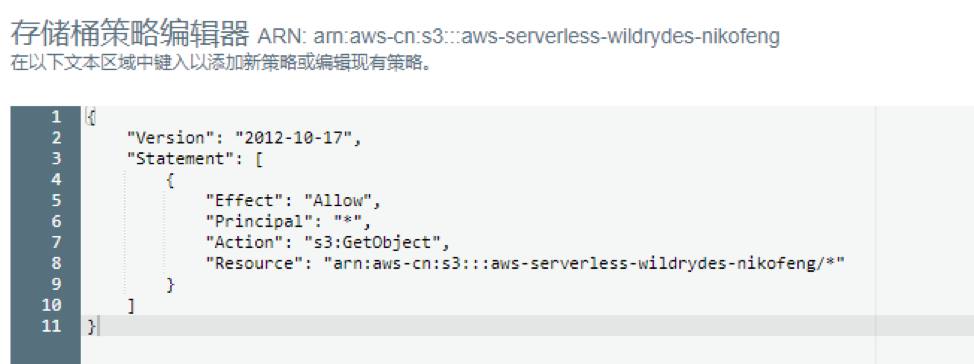
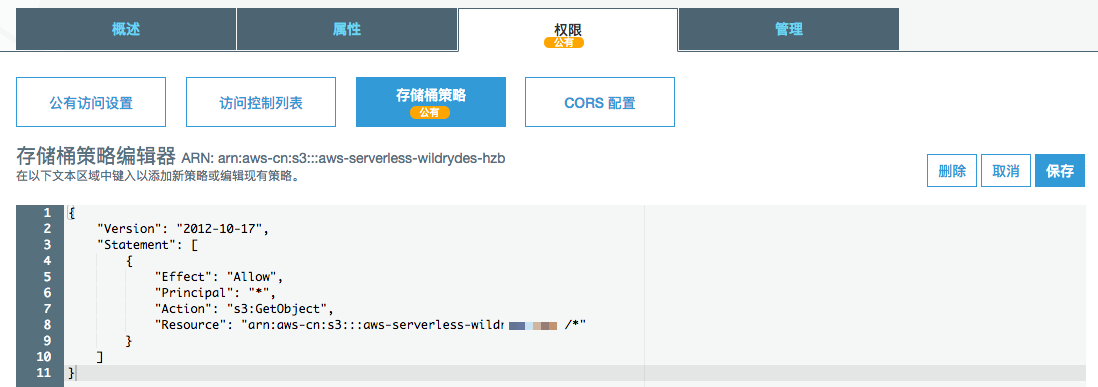
版本管理与灰度发布

Changed region(s): [[0.0, 0.0, 0.8624, 1.0], [0.8316, 0.3929, 1.0, 0.4835], [0.9856, 0.8462, 1.0, 0.9368]]

diff --git a/Lab4-WildRyde-WebApplication/readme3.md b/Lab4-WildRyde-WebApplication/readme3.md
@@ -1,11 +1,15 @@
 ## 第三节：集成API Gateway 构建RESTful APIs
 
-在本单元中，您将使用API Gateway将您在上一个模块中构建的Lambda函数公开为RESTful API,此API可在Internet上访问。使用此配置，您将通过添加客户端JavaScript将您的静态托管网站转换为动态Web应用程序，通过调用AJAX去暴露API。  
+在本单元中，您将使用 API Gateway 将您在上一节中构建的 Lambda 函数开放为 RESTful API 并在 Internet 上可访问。  
 ![arch](./img/PictureC1.png)
-上图显示了您将在此模块中构建的API Gateway组件如何与先前构建的现有组件集成。灰色项目是您在之前步骤中已实施的部分。  
+上图显示了您将在本节中构建的 API Gateway 组件如何与先前构建的现有组件集成。灰色项目是您在之前步骤中已实施的部分。  
 
-您在第一个模块中部署的静态网站已经配置了一个页面，该页面被配置为与您将在此模块中构建的API进行交互。 /ride.html上的页面有一个简单的基于地图的界面，用于请求独角兽骑行。您的用户可以通过单击地图上的某个点来选择他们的取件位置，然后通过选择右上角的“Request Unicorn”按钮来请求乘坐。  
-
+您在第一节中部署的静态网站已经显示了一个静态页面，该页面被配置为与您将在本节中构建的 API 进行动态交互。   
+/ride.html  上的页面有一个简单的基于地图的界面，用于请求独角兽骑行。用户可以单击地图上的某个点来选择他们的取件位置，然后通过选择右上角的“Request Unicorn”按钮来发起请求。  
+  
+  
+操作步骤：
+  
 ### 通过API Gateway创建REST API
 1. 在AWS管理控制台中，单击“服务”，然后在“应用程序服务”下选择“API Gateway”
 2. 选择“创建API”
@@ -15,8 +19,8 @@ o	API名称：WildRydes
 4. 点击“创建API”完成操作  
    ![api](./img/PictureC2.png)
 
-### 创建API资源和方法
-在API中创建名为/ride的新资源, 然后为该资源创建一个POST方法，并将其配置为使用由您在此模块的第一步中创建的RequestUnicorn函数支持的Lambda代理集成。
+### 创建 API Resource (资源)和 Method (请求方法)
+在API中创建名为 /ride 的新资源, 然后为该资源创建一个 POST 方法，并将其配置为 Lambda RequestUnicorn 函数代理集成。
 
 1. 在左侧导航栏中，单击WildRydes API下的“资源”。
    ![api](./img/PictureC3.png)
@@ -27,7 +31,7 @@ o	资源路径：/ride
 o	勾选“启用API Gateway CORS”  
 ![api](./img/PictureC4.png)
 4. 点击“创建资源”
-5. 选择新创建的/ride资源后，从“操作”下拉列表中选择“创建方法”
+5. 选择新创建的 /ride 资源后，从“操作”下拉列表中选择“创建方法”
 6. 选中显示的新下拉列表中的POST方法
 ![api](./img/PictureC5.png)
 7. 点击“POST”方法进入设置页面，填入如下信息  
@@ -40,11 +44,12 @@ o	勾选“使用默认超时”
 8. 点击“保存”
 9. 在弹出的确认框里，点击“确定”授予API Gateway调用Lambda函数的权限
 10. 在“操作”下拉列表中，选择“部署API”
+    ![api](./img/PictureC16.png)
 11. 在部署API页面中填入如下信息
 o	部署阶段：新阶段  
 o	阶段名称：prod  
 12. 点击“部署”
-13. 记录“prod阶段编辑器”的调用URL，后续需要用到（如下图所示）
+13. 记录“prod阶段编辑器”的调用URL，这个URL就是API暴露到公网的访问地址。后续需要用到（如下图所示）。
 ![api](./img/PictureC7.png)
 
 ### 更新网页应用的配置
@@ -66,13 +71,17 @@ o	阶段名称：prod
 点击终端节点跳转到网页应用执行验证  
 ![api](./img/PictureC9.png)
 ![api](./img/PictureC10.png)
-![api](./img/PictureC11.png)
+
 ![api](./img/PictureC12.png)
 点击“GIDDY UP!”，进入下一个测试页面
-![api](./img/PictureC13.png)
-如果一切正常，会看到上图所示的一张地图  
+
+如果一切正常，会看到一张地图  
 在图中地图上任意一点点击鼠标左键，设定一个地点，如下图：
 ![api](./img/PictureC14.png)
 点击右上角的“Request Unicorn”,会发现有个马从一个角落跑出来到上一步设定的地点，并且右上角出现一些文字提示，提示前来接驾的马的颜色等信息。
 ![api](./img/PictureC15.png)
-至此，恭喜您，您基于S3 + API gateway + Lambda + DynamoDB的第一个serverless应用搭建完成！该应用为serverless架构，您无需管理任何服务器，只需进行应用代码编写和一些简单的配置，即可实现一个动态伸缩、高可用、按实际使用量付费的架构！
+至此，基于S3 + API gateway + Lambda + DynamoDB的第一个serverless应用搭建完成！该应用为serverless架构，您无需管理任何服务器，只需进行应用代码编写和一些简单的配置，即可实现一个动态伸缩、高可用、按实际使用量付费的架构！
+
+您可以进一步到 DynamoDB 界面上查看写入的数据库记录。然后进入下一节，了解 Lambda 和 API Gateway 更多的运维知识。
+
+下一节：[监控、版本管理与灰度发布](./readme4.md)

diff --git a/Lab4-WildRyde-WebApplication/readme2.md b/Lab4-WildRyde-WebApplication/readme2.md
@@ -1,9 +1,9 @@
 ## 第二节：搭建无服务器后台
-在此模块中，您将使用AWS Lambda和Amazon DynamoDB构建应用后端，以处理来自Web应用程序的请求。您在第一个模块中部署的浏览器应用程序允许用户请求将独角兽发送到他们选择的位置。为了满足这些请求，浏览器中运行的JavaScript需要调用在云中运行的服务。  
+在此模块中，您将使用 AWS Lambda 和 Amazon DynamoDB 构建应用后端，以处理来自Web应用程序的请求。您在第一节中部署的应用程序允许用户请求将独角兽发送到他们选择的位置。为了满足这些请求，浏览器中运行的JavaScript需要调用在云中运行的服务。  
   
 您将实现一个Lambda函数，每次用户请求一个独角兽时都会调用该函数。该函数将选择一个独角兽，在DynamoDB表中记录请求，然后使用有关正在调度的独角兽的详细信息响应前端应用程序。  
   
-使用Amazon API Gateway从浏览器调用该函数。您将在下一个模块中实现该连接。对于这个模块，你只需要单独测试你的功能。  
+使用Amazon API Gateway从浏览器调用该函数。您将在下一个模块中实现该连接。对于这个模块，你只需要单独测试本模块的功能。  
 
 ![architecture](./img/PictureB1.png)
 
@@ -15,10 +15,12 @@
 * 表设置: 勾选“使用默认设置”  
 ![ddb](./img/PictureB2.png)  
 * 点击“创建”
-* 在“”表详细信息栏里获取Amazon 资源名称 (ARN), 把对应的值记录下来将会用在下一个操作
+* 在表详细信息栏里获取资源名称 ARN , 把对应的值记录下来将会用在下一个操作
+![ddb](./img/PictureBp1.png)
 
-### 创建IAM角色应用在Lambda函数
-每个Lambda函数都有一个与之关联的IAM角色。此角色定义允许Lambda函数访问其他相关的AWS服务。出于本研讨会的目的，您需要创建一个IAM角色，授予您的Lambda函数权限，以便将日志写入Amazon CloudWatch Logs并访问将项目写入DynamoDB表。  
+
+### 创建 Lambda 函数需要使用的 IAM 角色
+每个Lambda函数都有一个与之关联的IAM角色。此角色定义允许Lambda函数访问其他相关的AWS服务。您需要创建一个IAM角色，授予您的Lambda函数权限，以便并访问DynamoDB表，以及写入日志到CloudWatchLogs。  
 1. 在AWS管理控制台中，单击“服务”，然后在“安全性&身份”部分中选择IAM
 2. 在左侧导航栏中选择“角色”，然后选择“创建角色”
 3. 从AWS服务组中为角色类型选择Lambda，然后单击“下一步：权限”
@@ -33,24 +35,24 @@
    ![iam](./img/PictureB5.png) 
 8. 点击“权限”选项页里右侧的“添加内联策略”创建允许往DynamoDB写的权限
    ![iam](./img/PictureB6.png) 
-9. 在“可视化编辑器”中填写如下信息
+9. 在“可视化编辑器”中填写如下信息  
 o	服务：DynamoDB  
 o	操作：PutItem，可在搜索栏上筛选PutItem  
 o	资源：选择“特定”，点击“添加ARN”，输入刚才创建DynamoDB表后记录下来的ARN信息  
 o	填写完ARN后，Region, Account, Table name这三个字段会自动填充。    
 ![iam](./img/PictureB7.png) 
-10. 点击“Review Policy”
+10. 点击“添加”，然后“查看策略”
 11. 输入名称“DynamoDBWriteAccess”，然后点击“Create Policy”
 12. 创建结束后在“权限”选项页里可以看到已经成功添加了“DynamoDBWriteAccess”策略
     ![iam](./img/PictureB8.png) 
 
 ### 创建用于处理请求的Lambda函数
 
-AWS Lambda将运行您的代码以响应HTTP请求等事件。在此步骤中，您将构建核心功能，该功能将处理来自Web应用程序的API请求以分派独角兽。在下一个模块中，您将使用Amazon API Gateway创建RESTful API，该API将公开可从用户的浏览器调用的HTTP终端节点。然后，您将在此步骤中创建的Lambda函数连接到该API，以便为Web应用程序创建功能完备的后端。
+AWS Lambda 将运行您的代码以动态响应HTTP请求。在此步骤中，您将构建核心功能，该功能将处理来自Web应用程序的API请求以分派独角兽。
 
 1. 选择服务，然后在计算部分选择Lambda。
 2. 选择“创建函数”
-3. 选择“从头开始创作”，并填入一下内容
+3. 选择“从头开始创作”，并填入一下内容  
 o	名称：RequestUnicorn  
 o	运行语言：Node.js 6.10  
 o	角色：选择现有角色  
@@ -62,7 +64,7 @@ o	现有角色：WildRydesLamdba
 ### 验证Lambda函数
 1. 在功能的主编辑屏幕中，从“选择测试事件 ...”下拉列表中选择“配置测试事件”。
 ![iam](./img/PictureB9.png) 
-2. 勾选“创建新测试事件”，事件模板选择默认的“Hello World”,“事件名称”填入TestRequestEvent
+2. 勾选“创建新测试事件”，事件模板选择默认的“Hello World”,“事件名称”填入 TestRequestEvent
 3. 将以下测试事件复制并粘贴到编辑器中  
 ![iam](./img/PictureB10.png)
 ```

diff --git a/Lab4-WildRyde-WebApplication/readme.md b/Lab4-WildRyde-WebApplication/readme.md
@@ -50,7 +50,7 @@ Step-By-Step 操作指引
 通过控制台上传实验文件  
 1. 通过如下链接下载本次实验的文件内容  
 [WildRydes-aws-serverless-workshop.zip](./WildRydes-aws-serverless-workshop.zip)  
-1. 解压缩后把tutorial文件夹（不包含tutorial文件夹）内的所有内容通过网页控制台上传到刚才创建的S3存储桶内,可以直接全选文件夹内的所有内容，通过鼠标拖拽到上传界面(请不要通过“上传文件”按钮的方式上传文件)。请保证内容里的所有文件（包括文件夹）都在上传范围内。  
+1. 解压缩后把tutorial文件夹（不包含tutorial文件夹）内的所有内容通过网页控制台上传到刚才创建的S3存储桶内,可以直接全选文件夹内的所有内容，通过鼠标拖拽到上传界面。请不要通过“上传文件”按钮的方式上传文件，那样无法选择文件夹。请保证内容里的所有文件（包括文件夹）都在上传范围内。当然，你可以使用 AWS CLI 命令行上传。
 ![upload](./img/Picture5.png)
 
 3. 点击上传等到文件全部导入S3存储桶内
@@ -58,13 +58,13 @@ Step-By-Step 操作指引
 ### 添加存储桶策略允许公开访问  
 您可以使用存储桶策略定义谁可以访问S3存储桶中的内容。存储桶策略是JSON文档，用于指定允许哪些主体对存储桶中的对象执行何种操作。   
   
-您需要向新的Amazon S3存储桶添加存储桶策略，以允许匿名用户查看您的网站。默认情况下，只有有权访问您的AWS账户的经过身份验证的用户才能访问您的存储桶。  
-  
 请参阅如下示例，该策略将授予对匿名用户的只读访问权限。此示例策略允许Internet上的任何人查看您的内容。  
-1. 选择存储桶，选择权限选项卡，然后选择存储桶策略。
-2. 在存储桶策略编辑器中粘贴如下代码示例，确保在Resource中替换您存储桶的名字  
-3. 点击保存
-
+1. 选择存储桶，选择权限选项卡，选择公有访问设置选项卡。取消“管理此存储桶的公有存储桶策略“的两个勾选。
+  
+![acl](./img/Picturep1.png)
+  
+2. 选择存储桶策略，在存储桶策略编辑器中粘贴如下代码示例，确保在Resource中替换您存储桶的名字，点击保存  
+  
 ![policy](./img/Picture6.png)
 
     {
@@ -81,10 +81,8 @@ Step-By-Step 操作指引
 
 ### 开启静态网站托管
 默认情况下，S3存储桶中的对象可通过结构为  
-`http://aws-serverless-wildrydes-<name>.s3-website.cn-northwest-1.amazonaws.com.cn`
-的URL提供。要从根URL（例如/index.html）提供资源，您需要在存储桶上启用网站托管。有关使用此功能的更多详细信息，请参阅AWS网站文档。这将使您的对象在存储桶的AWS区域特定网站端点可用。请参阅Amazon Simple Storage Service网站端点以查找适用于您所在地区的域。
-您还可以为您的网站使用自定义域名。例如，`http://www.wildrydes.com` 托管在S3上。本研讨会不涉及设置自定义域名，但您可以在我们的文档中找到详细说明。
-开启静态网站托管操作指引
+`http://aws-serverless-wildrydes-<name>.s3-website.cn-northwest-1.amazonaws.com.cn` 的URL提供。要从根URL（例如/index.html）访问，您需要在存储桶上启用静态网站托管。您还可以为您的网站使用自定义域名。例如，`http://www.wildrydes.com` 托管在S3上。本研讨会不涉及设置自定义域名，您可以在我们的文档中找到详细说明。
+开启静态网站托管操作指引：
 1. 选择存储桶，选择属性选项卡，找到静态网站托管的选项
 2. 点击静态网站托管，选择“使用此存储桶托管网站”
 3. 在索引文档里填入“index.html”作为默认主页

diff --git a/Lab4-WildRyde-WebApplication/readme4.md b/Lab4-WildRyde-WebApplication/readme4.md
@@ -1,0 +1,48 @@
+## Lambda 和 API Gateway 的监控、版本管理与灰度发布
+
+AWS Lambda 可以实现监控，日志记录，多版本管理和灰度发布，以下步骤将带您了解一次具体操作。  
+
+1. 监控  
+在 Lambda 控制台界面上点击“监控”，这里看到调用数量、时长、错误率、节流、迭代、死信消息、并发数量等指标。
+点击logs，会自动新建一个窗口，并打开对应 CloudWatchLogs 的流日志，记录了 Lambda 输出日志的所有信息。
+![lambda](./img/PictureD1.png) 
+
+2. Debug  
+* 对于超时错误，适当调整 Lambda 的超时时间，以及调整运行内存可以加快 Lambda 的运行速度（因为有更多的CPU资源）。另外，除非必须要访问VPC内部的资源，否则并不需要配置VPC模式，因为VPC模式会增加 Lambda 的启动时间；  
+* 对于并发控制限流的情况，可以适当调整该函数的并发数量；  
+* 建议设置DLQ（死信队列），对于 Lambda 不能正常运行的情况，就会被消息转入DLQ，存入SQS（或SNS）。并增加额外的处理机制对DLQ里面的小心进行分析和处理。
+![lambda](./img/PictureD2.png)
+
+3. 函数完成调试后，可以发布成为新版本（该版本就不再变更了）。  
+![lambda](./img/PictureD3.png)    
+并创建新的别名，例如 prod（生产环境）指向发布的版本（例如版本1）。  
+![lambda](./img/PictureD4.png)  
+这样外部调用的时侯，应该指向的是 prod 版本，而不是最新修改的开发版本。所以此时应该到 API Gateway 的界面中，把 API Gateway 集成的 Lambda 函数修改为 prod 版本的 ARN  
+![lambda](./img/PictureD5.png)  
+
+4. 灰度发布  
+灰度发布（又名金丝雀发布）是指在新旧两个版本之间，能够平滑过渡的一种发布方式。在其上可以进行 A/B 测试，即让一部分用户继续用产品特性A，一部分用户开始用产品特性B，如果用户对B没有什么反对意见，那么逐步扩大范围，把所有用户都迁移到B上面来。灰度发布可以保证整体系统的稳定，在初始灰度的时候就可以发现、调整问题，以保证其影响度。  
+当我们对 Lambda 函数做了修改，我们可以再发布一个新版本，版本2。然后修改别名 prod，设置“其他版本”为版本2，并且权重为 5%。这样就实现了新版本5%的流量，老版本95%流量的灰度发布。
+![lambda](./img/PictureD6.png)  
+
+5. 启用 API Gateway 日志记录  
+API Gateway 支持发送日志到 CloudWatchLogs 上，设置如下   
+![api](./img/PictureD7.png)    
+
+6. 监控 API  
+打开 API Gateway 的监控界面进行监控
+![api](./img/PictureD8.png)   
+打开 CloudWatch 进行 API 监控，可以更细致的查看不同请求方法不同资源（例如 POST，GET）的指标  
+![api](./img/PictureD9.png)  
+
+7. API 部署倒回
+![api](./img/PictureD11.png)  
+
+8. API 金丝雀发布（灰度发布）  
+在API Gateway对应的阶段，点击 Canary 金丝雀，点创建
+![api](./img/PictureD10.png) 
+创建金丝雀并设置百分比之后，后续部署到这个阶段的版本，并不会立刻提供给所有用户访问，而只是对应5%的用户能访问到最新版本。
+![api](./img/PictureD13.png) 
+![api](./img/PictureD12.png) 
+
+版本验证可以完全发布之后，可以点击“提升 Canary“，以使新版本成为正常生产环境，接受100%的请求流量。
